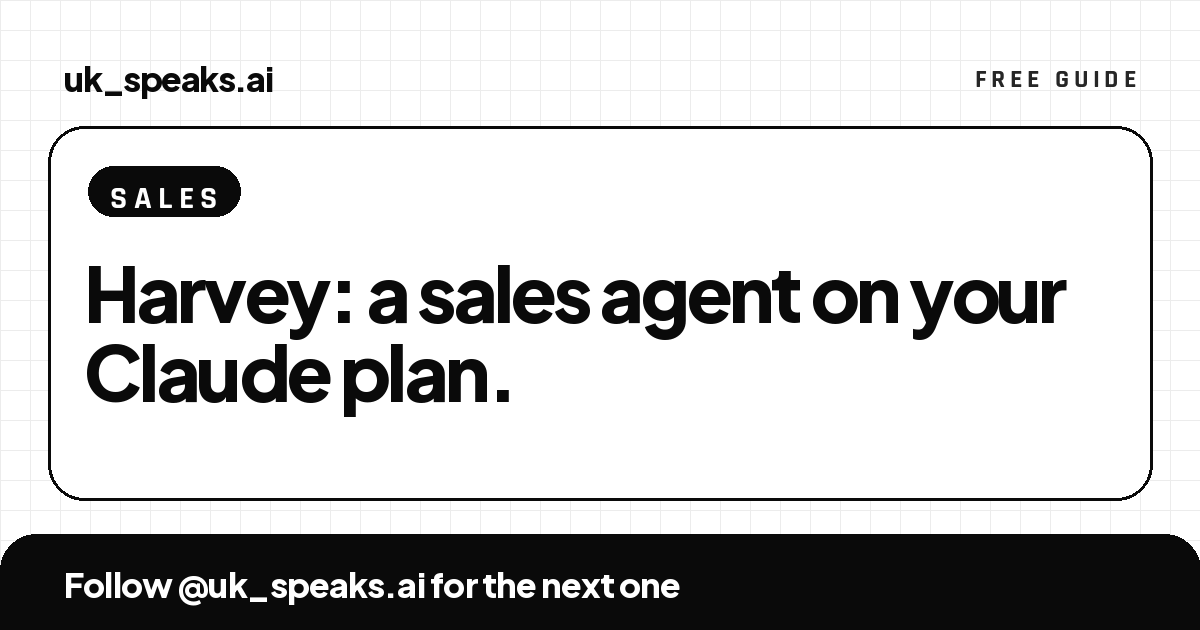
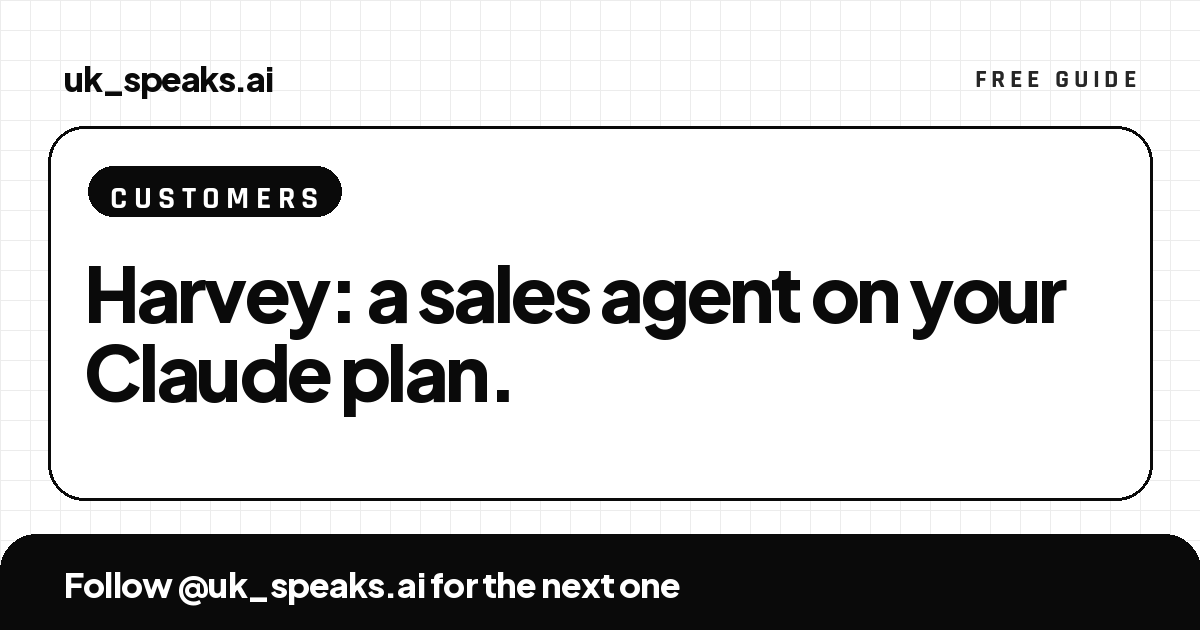
Harvey guide: keyword CUSTOMERS
Claude-Session: https://claude.ai/code/session_01DrEtdZbPU4S7ibM2pCaEaR

Changed region(s): [[0.0925, 0.2413, 0.3083, 0.3619]]

diff --git a/g/harvey/index.html b/g/harvey/index.html
@@ -14,13 +14,13 @@
   <meta property="og:title" content="Harvey: a sales agent on your Claude plan">
   <meta property="og:description" content="Finds businesses, writes cold emails, handles replies. Runs on your Claude subscription, with no API bill.">
   <meta property="og:url" content="https://unnikrishnan-nambiar.github.io/uk_speaks.ai/g/harvey/">
-  <meta property="og:image" content="https://unnikrishnan-nambiar.github.io/uk_speaks.ai/assets/og/og-harvey.png">
+  <meta property="og:image" content="https://unnikrishnan-nambiar.github.io/uk_speaks.ai/assets/og/og-harvey.png?v=2">
   <meta property="og:image:width" content="1200">
   <meta property="og:image:height" content="630">
   <meta name="twitter:card" content="summary_large_image">
   <meta name="twitter:title" content="Harvey: a sales agent on your Claude plan">
   <meta name="twitter:description" content="Finds businesses, writes cold emails, handles replies. Runs on your Claude subscription, with no API bill.">
-  <meta name="twitter:image" content="https://unnikrishnan-nambiar.github.io/uk_speaks.ai/assets/og/og-harvey.png">
+  <meta name="twitter:image" content="https://unnikrishnan-nambiar.github.io/uk_speaks.ai/assets/og/og-harvey.png?v=2">
 
   <link rel="icon" href="../../favicon.svg" type="image/svg+xml">
   <link rel="icon" href="../../favicon-32.png" type="image/png" sizes="32x32">
@@ -41,7 +41,7 @@
     <section class="card guide-intro quick">
       <div class="intro-mark">
         <img src="../../assets/img/guides/claude-logo.webp" width="56" height="56" alt="Claude">
-        <span class="label keyword">Sales</span>
+        <span class="label keyword">Customers</span>
       </div>
       <h1 class="guide-title">Harvey: a sales agent on your <span class="underline">Claude plan.</span></h1>
       <ol class="quick-steps">
